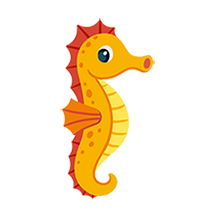
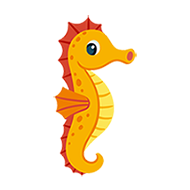
final clean-up

diff --git a/FinalProject/style.scss b/FinalProject/style.scss
@@ -6,49 +6,17 @@
 body {
     background-image: url("src/images/blue-textile-1078981(1).jpg");
     background-repeat: no-repeat;
-    background-size: 100% 100%; //make large view 100% 100%
+    background-size: 100% 100%; 
     margin: 0 auto;
     max-width: 80%;
     padding: 0;
     background-color: $color-8;
 
-    //MQ = media query
     @include MQ(break-medium) {
       max-width: 960px;
     }
 
 }
-
-// section {
-//     background-image: url("src/images/clamshell.png");
-//     background-repeat: no-repeat;
-//     background-size: 100% 100%; //make large view 100% 100%
-//     margin: 0 auto;
-//     max-width: 100%;
-//     padding: 0;
-//     background-color: $color-8;
-//}
-
-//  *********************************
-//  Brother Blaylock's Example
-//  *********************************
-//sample for how we changed partial _layout.scss
-// .cd-logo {
-//     /* logo box style */
-//     background-color: $color-1;
-//     width: 120px;
-
-//     //MQ = media query
-//     @include MQ(break-medium) {
-//       width: 180px;
-//     }
-//   }
-
-// header:after {
-//     content: "";
-//     display: block;
-//     clear: both;
-// }
 
 h1 {
     margin-top: 20px;
@@ -56,39 +24,21 @@ h1 {
     font-size: 2.5rem;
     color: $color-8;
     font-family: $header-font;
-    // padding-top: 2.5rem;
     text-align: center;
     text-shadow: 5px 5px 5px $color-7;
-    //background-image: url(src/images/surfboard1-layerstogether.svg);
-    //background-repeat: round space;
-    //background-repeat: no-repeat;
     
     @include MQ(break-medium) {
         line-height: 12rem;
-        text-shadow: 7px 7px 5px $color-7;   
         font-size: 3rem;
     }
 }
 
-/****************************ADDED AFTER OUR MEETING*****/
 
 h1::after {
     content: url(src/images/sanddollar-sm.png);
-    //font-size: 20px;//CAN'T FIGURE OUT SIZING - SIZED DOWN WITH PHOTOSHOP INSTEAD
     z-index:3;
     position: relative;
 }
-
-// //h1:after{
-//  //   content: "";
-//  //   display: block;
-//     width: 100px;
-//     height: 100px;
-//     background: url(src/images/starfish.jpg);
-//     z-index: 3;
-//     border: 1px solid black;
-//     margin: auto;
-// }
 
 h2, h3 {
     font-size: 2rem;
@@ -106,20 +56,14 @@ h2, h3 {
 }
 
 
-
-
 .page-wrapper {
-    /*    display: grid;
-    grid-template-columns: 1fr;
-    margin: 20px;
-    align-items: center; */
     position: relative;
 
     @include MQ(break-medium) {
         display: grid;
         grid-gap: 25px;
         grid-template-columns: 1fr 1fr;
-        grid-template-rows: repeat(100px, 1fr);
+        grid-template-rows: repeat(1fr, 100px);
     }
 }
     
@@ -135,66 +79,26 @@ footer {
 }
 
 footer a {
-    padding: 6px;     /****************************ADDED AFTER OUR MEETING*****/
-    transition: 2s;  //SUGGESTION TO CHANGE TO 1S & ADD TO ALL LINKS IN PARAGRAPH?//
+    padding: 6px;     
+    transition: 1s;  
 
         &:visited {
             color:  $color-2;
         }
     
-
         &:hover {
             color: $color-6;
         }
     }
 
 
-
-
-// *************************************
-// Brother Blaylock's Example of nesting
-// *************************************
-/* This is an example of nesting with the ampersand
-The ampersand takes the parent selector and repeats it
-where the & is. 
-
-a {
-    background: red; 
-    &:hover {
-        background: blue;
-    }
-}
-
-This will compile to 
-a {
-    background: red; 
-}
-
-a:hover {
-    background: blue;
-}
-
-Without the ampersand it creates a descendant selector 
-it will compile wrong in this case. 
-
-a {
-    background: red; 
-}
-
-See the space. 
-a :hover {
-    background: blue;
-}
-*/
-
 .preamble {
     color: $color-8;
     text-shadow: 2px 2px 5px $color-7;
-
 }
 
 .summary {
-    //text-shadow: 2px 2px 5px $color-8;
+    text-shadow: 2px 2px 5px $color-7;
     color: $color-8;
 }
 
@@ -219,7 +123,7 @@ a:link {
 }
 
 a:visited {
-    color: $color-2;//off-black
+    color: $color-2;
 }
 
 .main.supporting a:hover {
@@ -229,11 +133,6 @@ a:visited {
 .intro a:hover {
     text-decoration: underline;  
 }
-
-// .requirements {
-//     //text-shadow: 2px 2px 5px $color-7;
-// }
-
 
 
 .main.supporting h3 {
@@ -248,8 +147,8 @@ a:visited {
     text-align: center;
     text-shadow: 2px 2px 5px $color-7;
 
-    &:hover {                   /****************************ADDED AFTER OUR MEETING*****/
-    transform: rotate(355deg); //CHANGED FROM 11.25deg which what pointing down - Now points up//
+    &:hover {                  
+    transform: rotate(355deg); 
     }
 
     @include MQ(break-medium) {
@@ -257,8 +156,6 @@ a:visited {
     }
 }
 
-
-// @include MQ(break-medium) {
 
 .wrapper h3 {
 border: none;
@@ -271,14 +168,9 @@ margin-top: 0;
     margin-top: 50px;
 }
 
-    // .summary {
-    //     border: 5px red solid;
-    // }
-
 p {
     padding: 10px;
     font-family: $body-font;
-    //text-shadow: 2px 2px 5px $color-7;
     font-size: 1rem;
     line-height: 140%;
     font-weight: 600;
@@ -295,18 +187,13 @@ abbr {
 .design-selection,
 .design-archives,
 .zen-resources {
-    // background-color: lighten($color-8, 25%); 
-    background: rgba(255, 255, 255, 0.2);
-    //opacity: .75;
+    background: rgba(255, 255, 255, 0.3);
     padding: 20px;
-    //padding-left: 50px;
     margin: 35px;
     border-radius: 10px;
     color: $color-7;
-   // text-align: center;
     border: 2px dashed $color-7;
-    line-height: 1.5rem;
-    
+    line-height: 1.5rem; 
 }
 
 .design-selection a:hover,
@@ -321,126 +208,71 @@ abbr {
 .zen-resources {
     display: block;
     margin-top: 0.5em;
-   // font-family: ';
     font-size: 1.2em;
     font-style: italic;
-    text-transform: uppercase;
-      
+    text-transform: uppercase; 
 }
-
-
 
 .design-name {
     text-transform: uppercase;
     color: #004a87;
-  }
+}
 
 .designer-name {
     font-style: normal;
 }
 
-// .design-selection h3 {
-//     color: $color-1;
-//     font-weight: bold;
-//     font-size: 2.5rem;
-// }
-
-/****************************ADDED AFTER OUR MEETING*****/
-
 .design-selection h3::after {
-    content: url(src/images/surfboard-sm.png);
-    //font-size: 20px;//CAN'T FIGURE OUT SIZING - SIZED DOWN INSTEAD
+    content: url(src/images/surfboard_final.png);
     z-index:3;
     display: block;
     position: relative;
     align-self: center;
     width: 100%;
+    padding-top: 10px;
 }
 
 .design-archives h3::after {
-    content: url(src/images/seahorse2_sm.png);
-    //font-size: 20px;//CAN'T FIGURE OUT SIZING - SIZED DOWN WITH PHOTOSHOP INSTEAD
+    content: url(src/images/seahorse2_final.png);
     z-index:3;
     position: relative;
     width: 100%;
 }
 
-/****************************ADDED AFTER OUR MEETING*****/
-
 .zen-resources h3::after {
-    content: url(src/images/wave-sm.png);
-    //font-size: 20px;//CAN'T FIGURE OUT SIZING & POSITIONING - SIZED DOWN INSTEAD
+    content: url(src/images/wave-final.png);
     z-index:3;
     display: block;
-    position: relative; //DIFFERENT FROM STARFISH & SURFBOARD WHICH ARE ABSOLUTE
+    position: relative; 
     align-self: center;
-    padding: 25px;
+    padding-top: 25px;
     width: 100%;
 }
 
-// ******************************
-// ******************************
+
     @include MQ(break-medium) {
 
     body {
         background-size: 100% 100%;
     }
 
-    // header {
-    //     grid-column: 2 / 3;
-    //     grid-row: 1 / 2;
-    //     // align-content: right;
-    // }
-
-    // .intro { //CSS Zen Garden thru line 107 Footer
-    //     grid-column: 1 / 2;
-    //     // align-self: center;
-    // }
-
-
-    // .summary { // a demo of what can be...
-    //     grid-column: 2 / 3;
-    // }
-
-    // .preamble { //road to enlightenment
-    //     grid-column: 2 / 3;
-    //     grid-row: 1;
-    //}
-
     .intro {
         grid-column: 1 / 3;
-        //  grid-row: 1 / 1;
         align-content: center;
         
     }
 
     .explanation {
-        // So What is this about?
         grid-column: 1 / 3;
     }
 
-    // .main.supporting:last-child {
-    //     grid-column: 1 / 3;
-    // }
-
-
     .main.supporting {
-        // so what is this about
-        // participation
-        // benefits
-        // requirements
-        // footer
         grid-column: 1 / 2;
     }
-
-    // .main:last-child {
-    //     grid-column: 1 / 3;
-    //     }
 
     .wrapper,
     .sidebar {
         grid-column: 2 / 3;
-        //  grid-row: 2 / 3;
     }
 
     .benefits {
